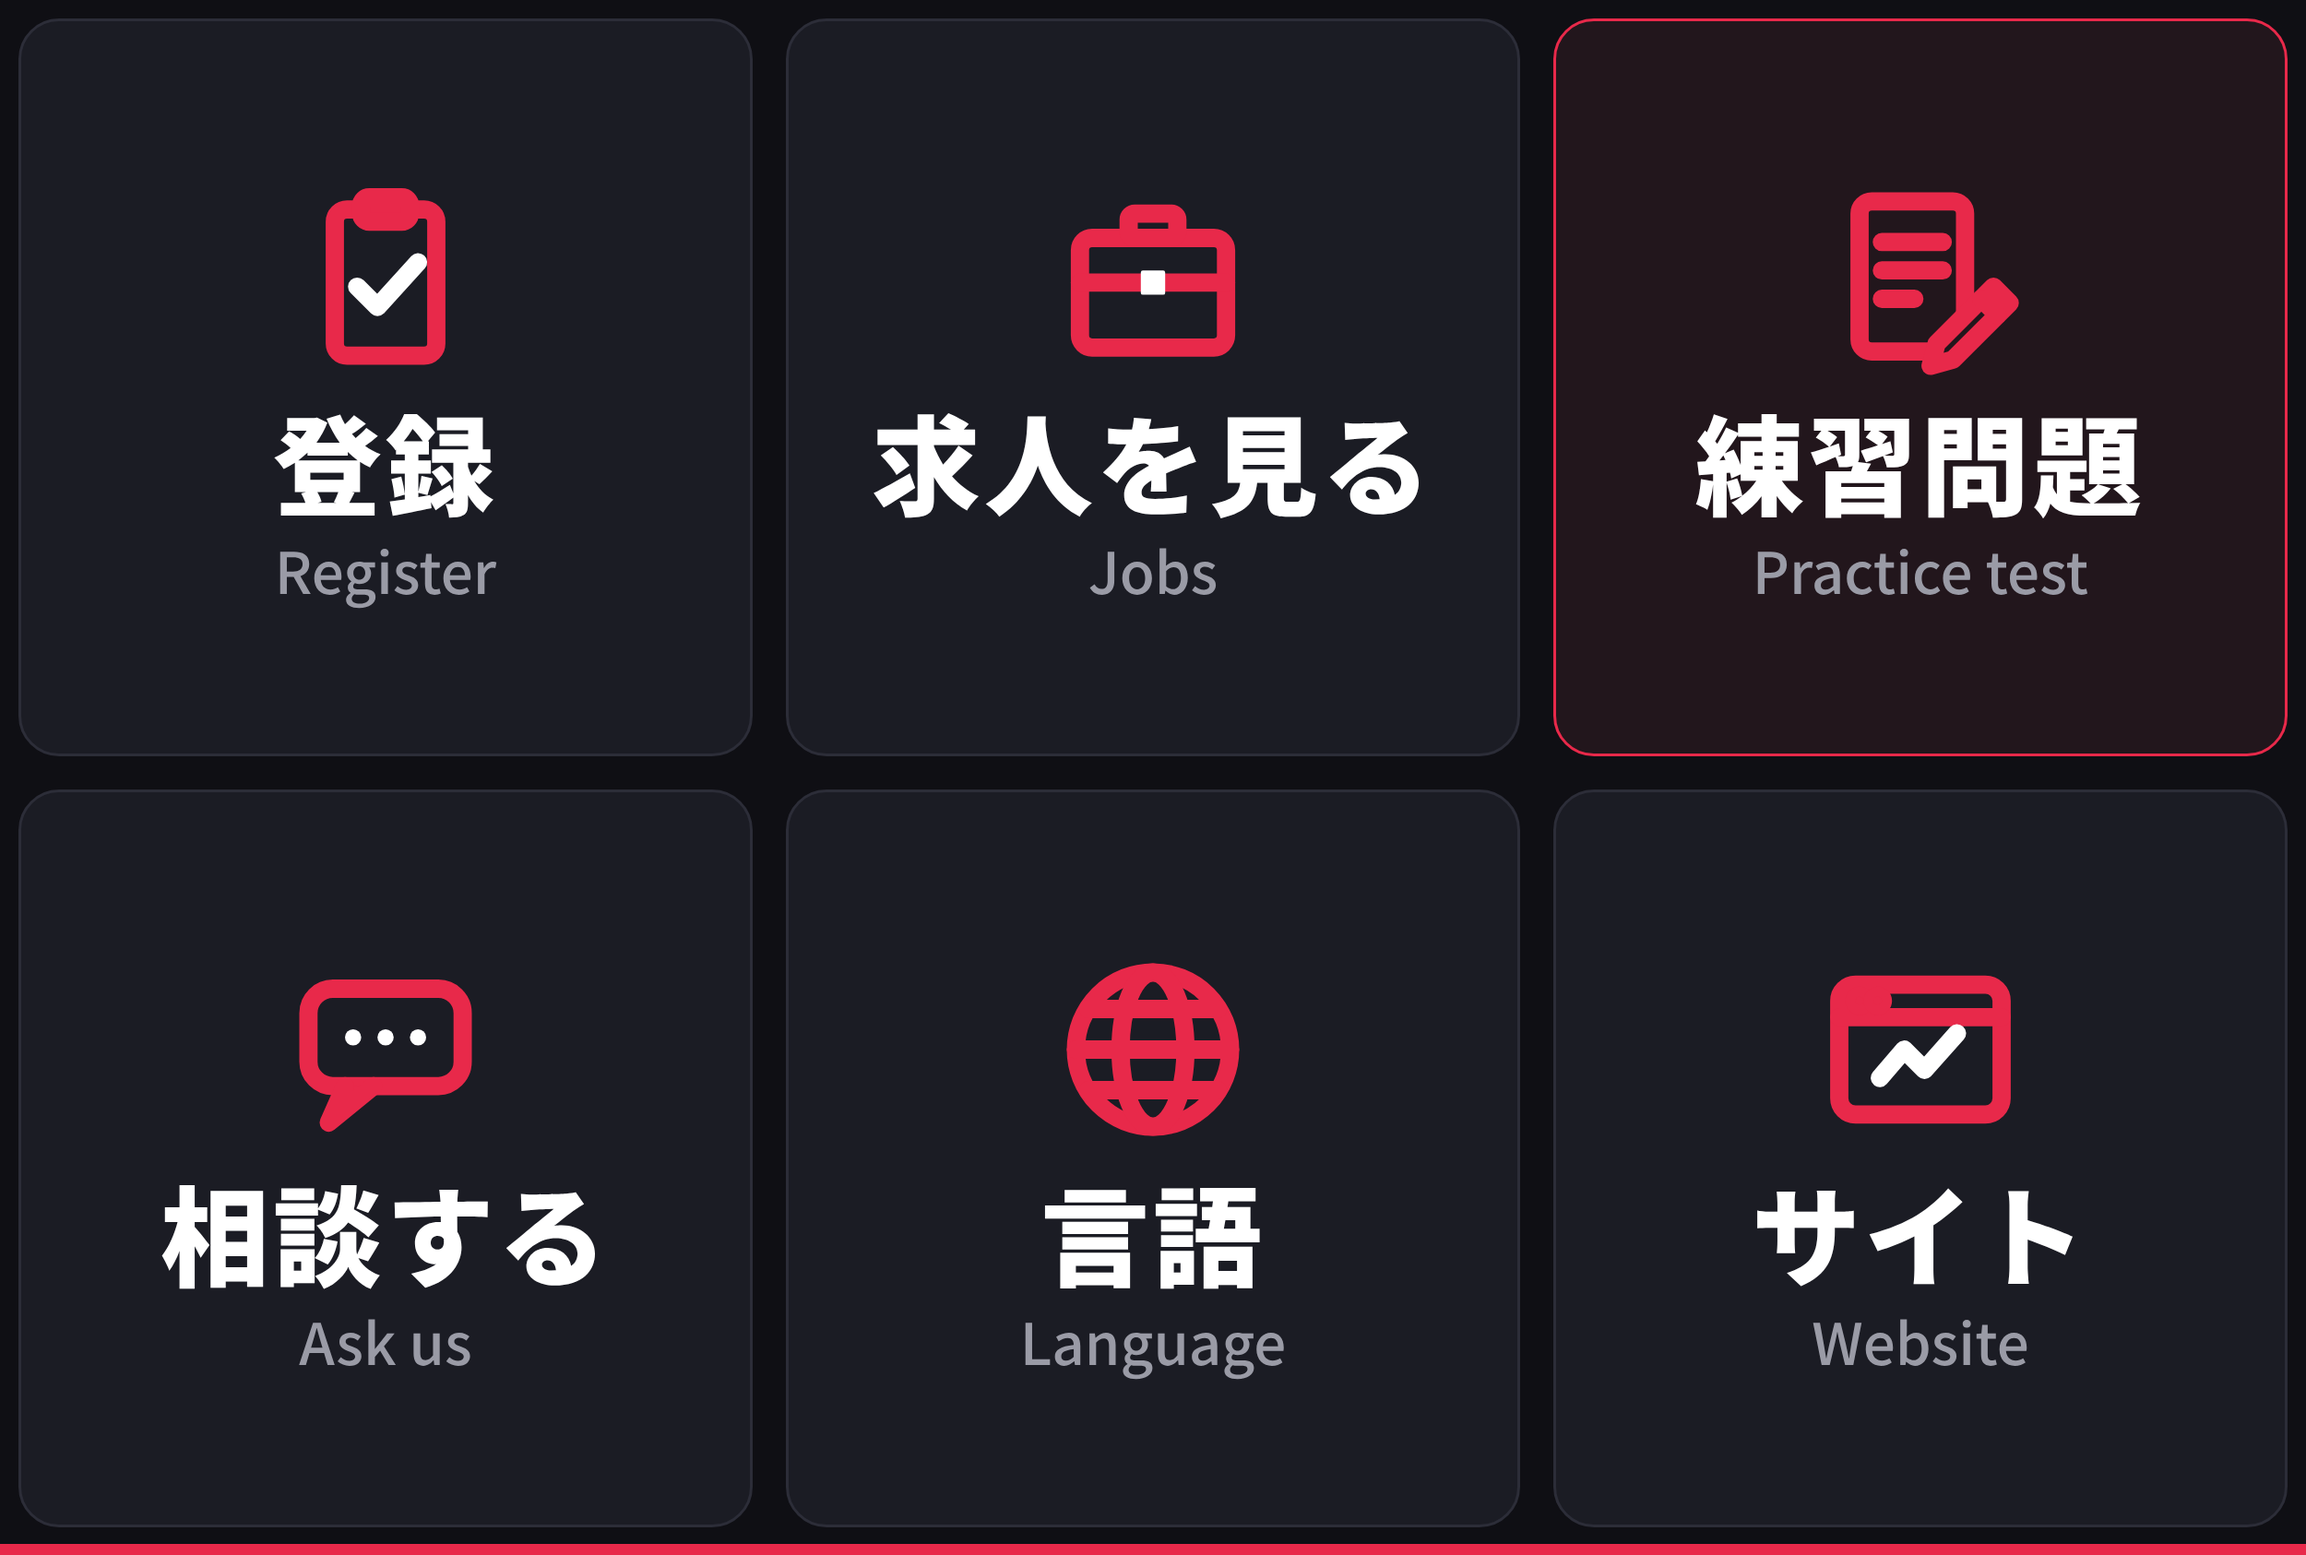
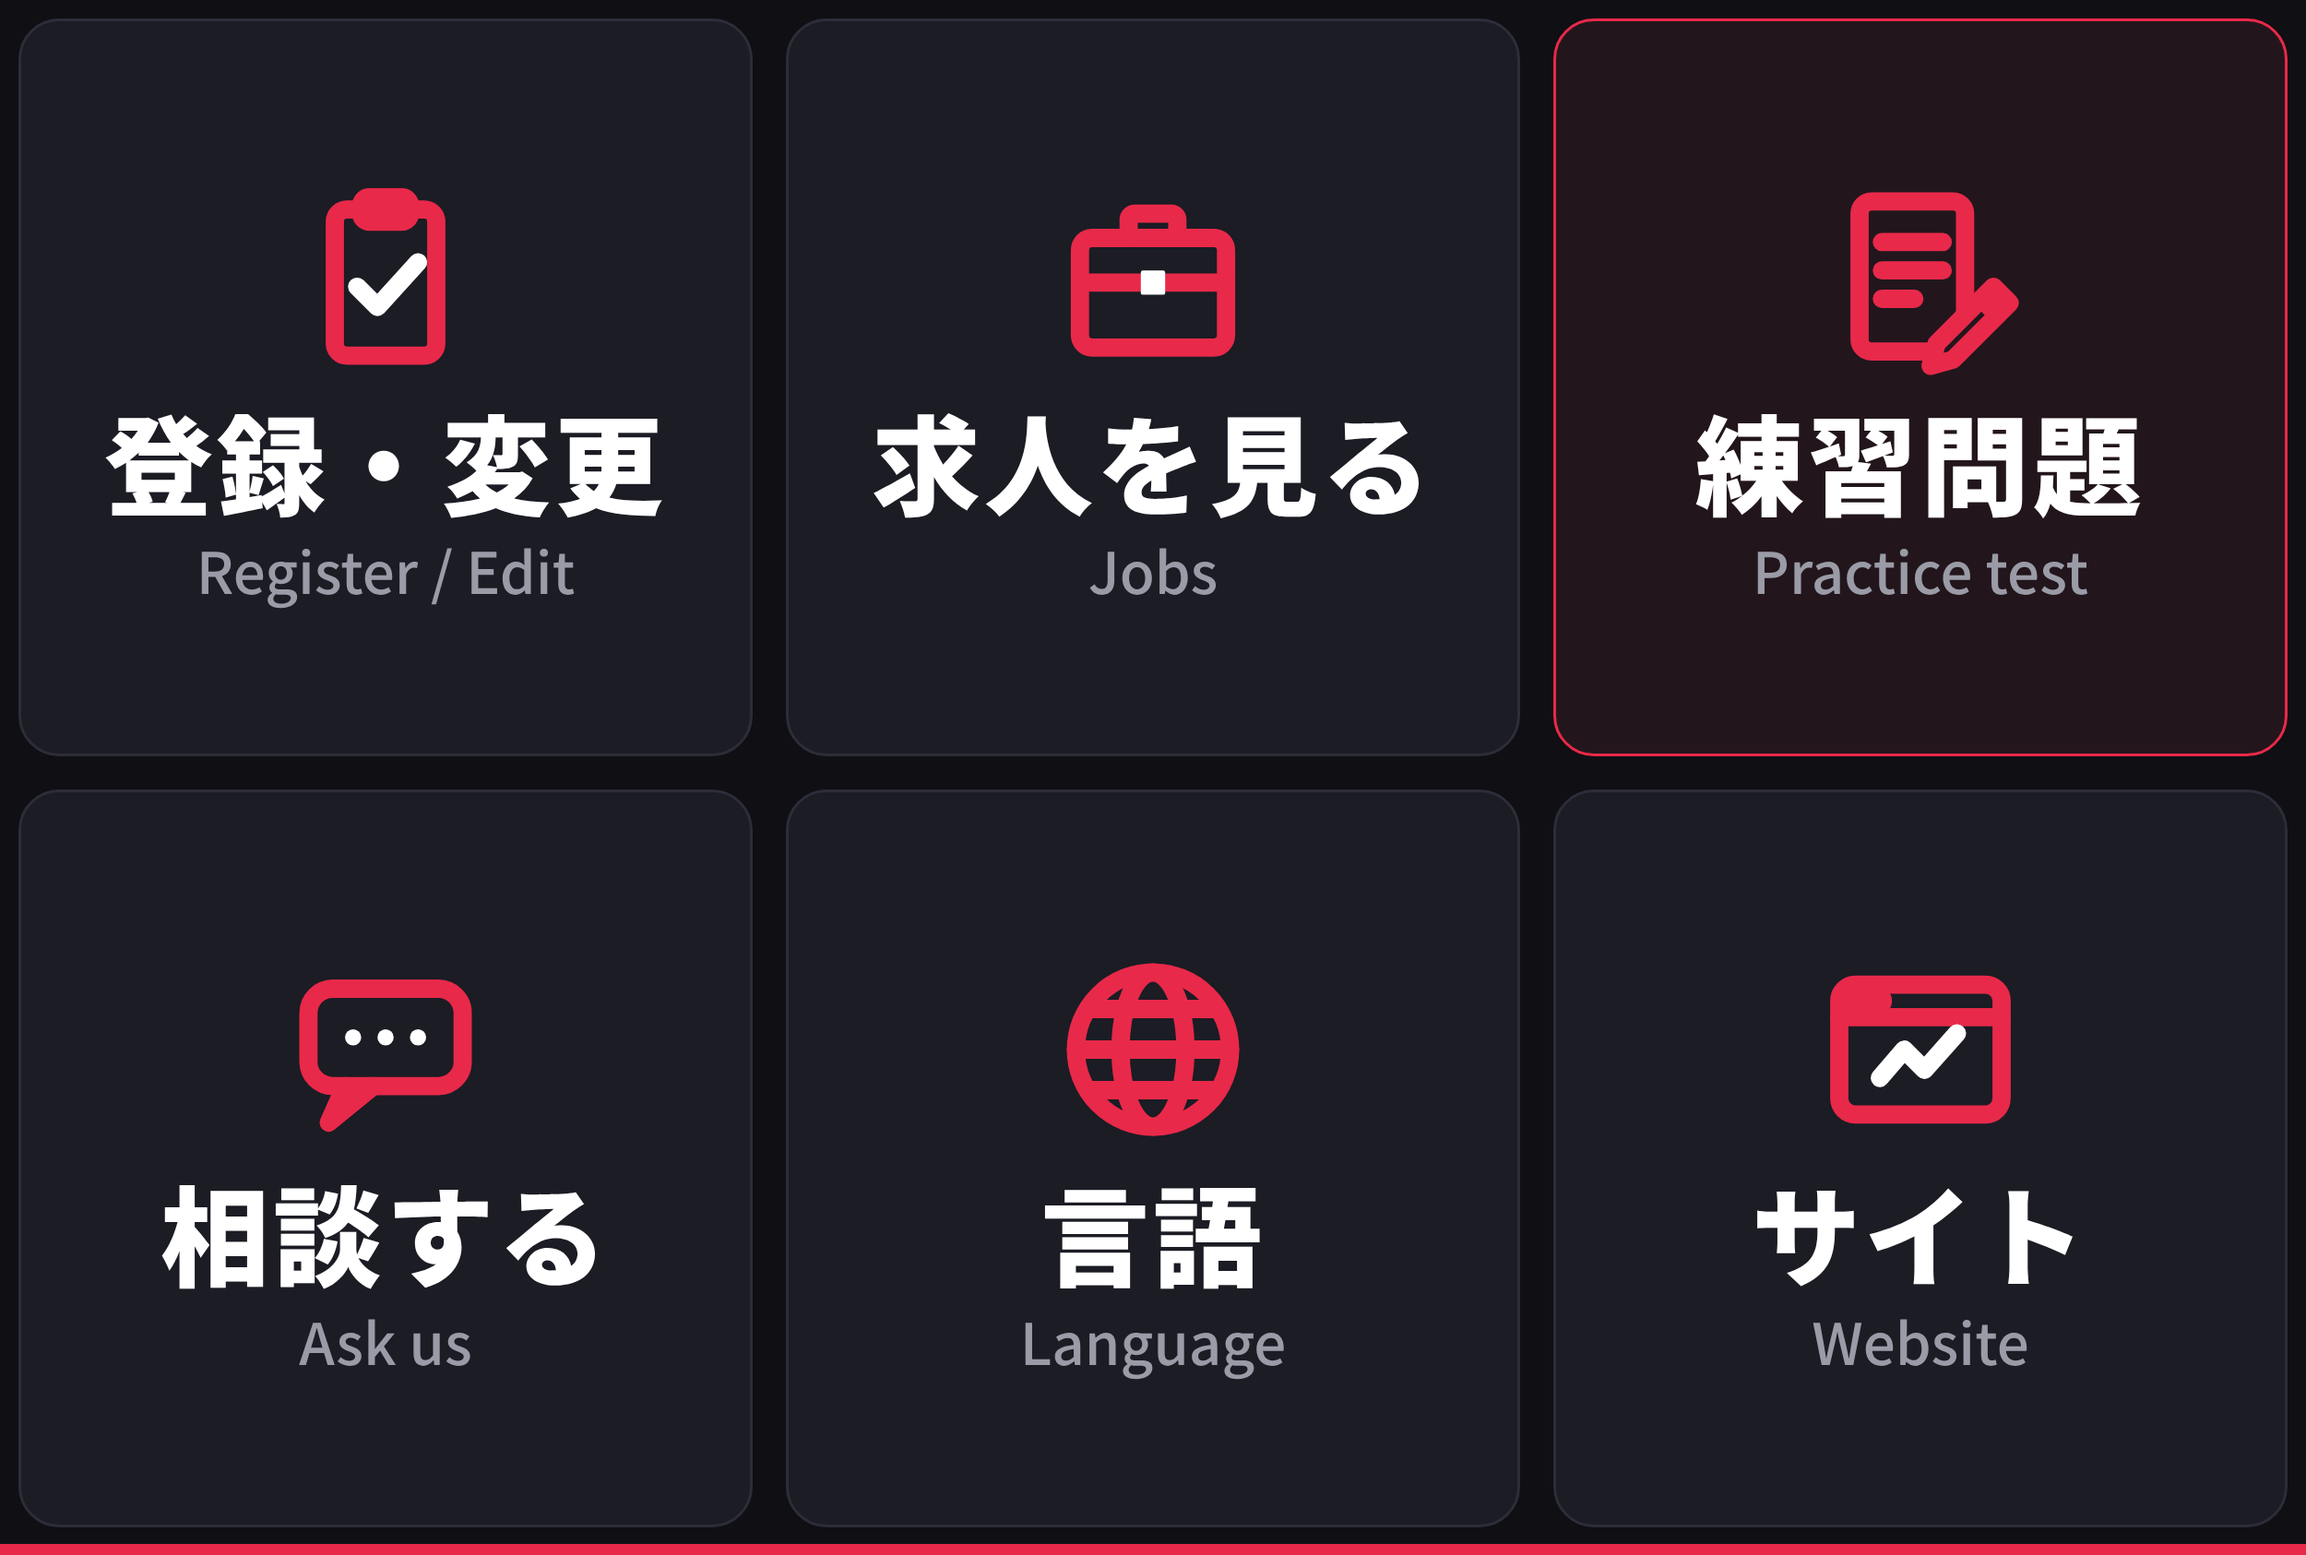
登録済みの人には「登録内容を変更」画面を出す（リッチメニューを「登録・変更」に）
Claude-Session: https://claude.ai/code/session_01RTGND7U373HEu1y4u7Vs5w

Changed region(s): [[0.0312, 0.2467, 0.2808, 0.4009]]

diff --git a/gas/line-bot/test/linebot-jobs.test.js b/gas/line-bot/test/linebot-jobs.test.js
@@ -141,4 +141,38 @@ const rep2 = calls.filter(c => /message\/reply/.test(c.url)).pop().body.messages
 assert.ok(rep2[0].includes('updated') && rep2.some(x => x.includes('Baito Tokyo')), rep2.join('\n---\n'));
 assert.strictEqual(ctx.findRegs_('MOVE').length, 1);
 assert.strictEqual(ctx.findRegs_('MOVE')[0]['希望勤務地'], '東京都');
+// 登録済みの人が「登録・変更」を押す → 新規登録ではなく、今の登録内容と変更ボタン
+const lastQ = () => calls.filter(c => /message\/reply/.test(c.url)).pop().body.messages[0];
+calls.length = 0;
+post({ type: 'postback', replyToken: 'r', source: { userId: 'NEW1' }, postback: { data: 'menu=register' } });
+ctx.setState_('NEW1', Object.assign(ctx.getState_('NEW1'), { lang: 'en' }));
+post({ type: 'postback', replyToken: 'r', source: { userId: 'NEW1' }, postback: { data: 'menu=register' } });
+let m = lastQ();
+assert.ok(m.text.includes('already registered') && m.text.includes('アルバイト') && m.text.includes('大阪'), m.text);
+const labels = m.quickReply.items.map(i => i.action.label);
+assert.deepStrictEqual(JSON.parse(JSON.stringify(labels)), ['登録内容を変更/Edit info', 'フルタイムも登録/Full-time']);
+labels.forEach(l => assert.ok(Array.from(l).length <= 20));
+// 「登録内容を変更」→ 雇用形態は聞かずに職種から
+post({ type: 'postback', replyToken: 'r', source: { userId: 'NEW1' }, postback: { data: 'edit=1' } });
+m = lastQ(); assert.ok(m.text.startsWith('2/7'), m.text);
+assert.strictEqual(ctx.getState_('NEW1').ans.type, 'アルバイト');
+// キーワード「変更」でも同じ画面
+post({ type: 'message', replyToken: 'r', source: { userId: 'NEW2' }, message: { type: 'text', text: '変更' } });
+ctx.setState_('NEW2', Object.assign(ctx.getState_('NEW2'), { lang: 'ne' }));
+post({ type: 'message', replyToken: 'r', source: { userId: 'NEW2' }, message: { type: 'text', text: 'change' } });
+m = lastQ(); assert.ok(m.text.includes('पहिले नै दर्ता'), m.text);
+m.quickReply.items.forEach(i => assert.ok(Array.from(i.action.displayText).length <= 20, i.action.displayText));
+// 「フルタイムも登録」→ フルタイムのコースで職種から
+post({ type: 'postback', replyToken: 'r', source: { userId: 'NEW2' }, postback: { data: 'addtype=正社員・フルタイム' } });
+assert.strictEqual(ctx.getState_('NEW2').flow, 'full');
+// 2つ登録している人は、どちらを変えるか聞く
+add('TWO', 3, { '雇用形態': '正社員・フルタイム' }); add('TWO', 3);
+ctx.setState_('TWO', { lang: 'vi', step: 'done' });
+post({ type: 'postback', replyToken: 'r', source: { userId: 'TWO' }, postback: { data: 'menu=register' } });
+assert.strictEqual(lastQ().quickReply.items.length, 1);
+post({ type: 'postback', replyToken: 'r', source: { userId: 'TWO' }, postback: { data: 'edit=1' } });
+m = lastQ(); assert.ok(m.text.includes('sửa đăng ký nào') && m.quickReply.items.length === 2);
+// 全言語のボタンが20文字以内
+['ja', 'en', 'vi', 'ne', 'id', 'jaen'].forEach(k => ['editBtn', 'addFull', 'addBaito'].forEach(b => assert.ok(Array.from(ctx.T[k][b]).length <= 20, k + b)));
+console.log('register/edit OK');
 console.log('ALL TESTS PASSED');

diff --git a/line/richmenu.html b/line/richmenu.html
@@ -15,7 +15,7 @@
 <div class="grid">
   <div class="card">
     <svg viewBox="0 0 100 100"><rect x="25" y="16" width="50" height="72" rx="6"/><rect x="38" y="10" width="24" height="12" rx="4" fill="#e8294a"/><path d="M36 54 l10 10 l20 -22" stroke="#fff"/></svg>
-    <div class="ja">登録</div><div class="en">Register</div>
+    <div class="ja">登録・変更</div><div class="en">Register / Edit</div>
   </div>
   <div class="card">
     <svg viewBox="0 0 100 100"><rect x="14" y="30" width="72" height="54" rx="6"/><rect x="38" y="18" width="24" height="12" rx="3"/><path d="M14 52 h72"/><rect x="45" y="47" width="10" height="10" fill="#fff" stroke="#fff" stroke-width="2"/></svg>

diff --git a/HANDOFF.md b/HANDOFF.md
@@ -34,6 +34,7 @@ LINE_TOKEN（必須）／NOTIFY_EMAIL（空ならGAS所有者）／SHEET_ID／AN
 4. 求人：「求人」タブに1行入れると「求人を見る」に即反映、翌朝10時に条件が合う人へ自動配信。求人ID空欄なら J001… を自動採番。雇用形態列（アルバイト／正社員・フルタイム／空欄=両方）で出し分け。「応募 J001」で応募→メール通知
 5. スプレッドシートのメニュー「LINE配信」：配信予定の確認／新着求人を今すぐ送る／取りこぼしたステップ配信をまとめて送る（2026-11-06〜。送る期間＝その日から3日を過ぎた配信を、1人1回のプッシュにまとめる。練習問題の一斉案内を受け取った人には5日後を送らない。テスト：node gas/line-bot/test/linebot-missed.test.js）
 6. 求人があとから登録した人にも届く（2026-11-16〜）：登録シートの「受信求人」列に、届いた求人IDを記録（新着配信・登録完了の返信・「求人を見る」）。登録完了の返信に、条件に合う公開中の求人（最大4件、返信なので無料）を付ける。メニュー「公開中の求人を、まだ届いていない登録者に送る」＝配信済みの求人のうち未受信のものを1人1回のプッシュ（最大4件）で送る。列ができる前の配信は「配信日時より前に、今と同じ条件で登録していた人（最終更新が配信より前）」には届いたとみなす。登録し直して勤務地などを変えた人には、新しい条件の求人が届く。テスト：node gas/line-bot/test/linebot-jobs.test.js
+7. 登録済みの人の「登録・変更」（2026-11-16〜）：リッチメニューは「登録・変更 / Register / Edit」。登録済みの人が押す（またはキーワード「変更」「change」「edit」など）と、今の登録内容と［登録内容を変更］［フルタイムも登録／アルバイトも登録］のボタンを出す。変更は雇用形態を聞かずに職種から。2つ登録している人には、どちらを変えるか聞く。画像を変えたら setupRichMenu を実行
 6. AI自動応答（Claude API）：個別のビザ判断・応募・苦情などは [ESCALATE] で担当者へメール
 7. 言語：日本語・English を選んだ人には全メッセージを日英併記。ベトナム語・ネパール語・インドネシア語（2026-11-02追加）はその言語のみ。求人本文は LanguageApp で自動翻訳
 8. 安全策：Webhook はスクリプトロックで1件ずつ処理、返信失敗時はプッシュで再送、押す順がずれても未回答の質問へ進む
